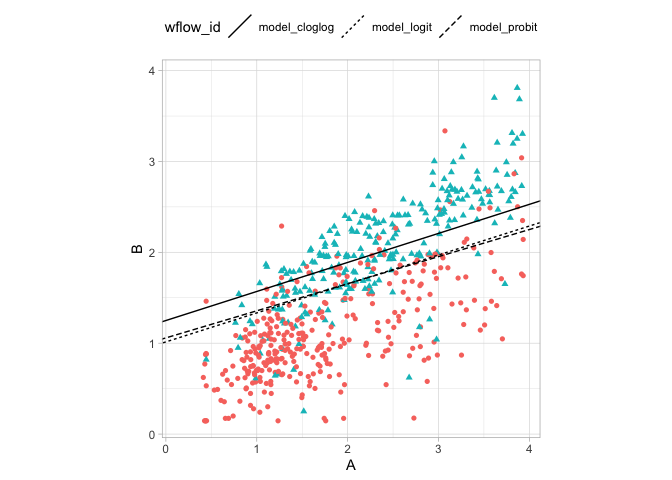
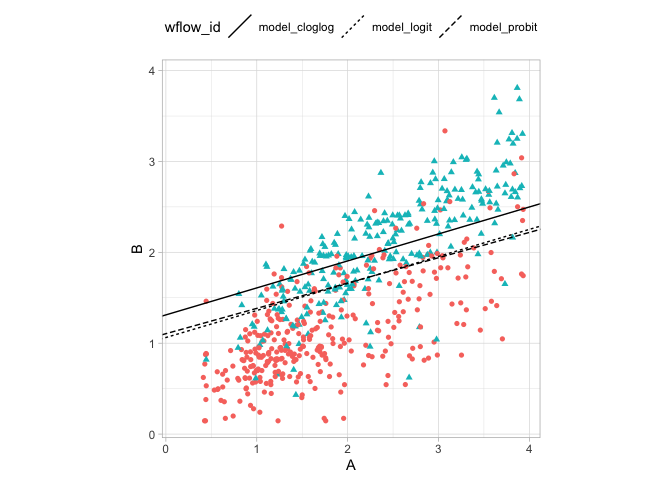
fixing math equations

diff --git a/tmwr/chapter12_tuning.md b/tmwr/chapter12_tuning.md
@@ -36,7 +36,7 @@ with two predictors, two classes, and a training set of 593 data points.
     ## ✖ dplyr::filter()  masks stats::filter()
     ## ✖ dplyr::lag()     masks stats::lag()
     ## ✖ recipes::step()  masks stats::step()
-    ## • Use tidymodels_prefer() to resolve common conflicts.
+    ## • Dig deeper into tidy modeling with R at https://www.tmwr.org
 
     tidymodels_prefer()
 
@@ -51,16 +51,16 @@ with two predictors, two classes, and a training set of 593 data points.
     ## # A tibble: 593 × 3
     ##        A     B Class 
     ##    <dbl> <dbl> <fct> 
-    ##  1 1.85  2.28  Class2
-    ##  2 3.43  2.81  Class2
-    ##  3 2.30  1.65  Class2
-    ##  4 1.20  1.51  Class2
-    ##  5 0.656 0.699 Class1
-    ##  6 1.12  0.813 Class1
-    ##  7 3.91  3.04  Class1
-    ##  8 1.31  0.785 Class1
-    ##  9 3.02  2.47  Class1
-    ## 10 0.961 0.964 Class1
+    ##  1  1.05 1.53  Class2
+    ##  2  1.92 1.83  Class1
+    ##  3  3.24 1.97  Class1
+    ##  4  2.80 2.53  Class2
+    ##  5  1.47 0.863 Class1
+    ##  6  1.42 1.60  Class2
+    ##  7  2.80 1.63  Class1
+    ##  8  1.44 0.574 Class1
+    ##  9  1.52 1.24  Class1
+    ## 10  3.89 3.68  Class2
     ## # ℹ 583 more rows
 
     training_set |> 
@@ -93,9 +93,9 @@ set (using `broom::glance()`):
     ## # A tibble: 3 × 2
     ##   logLik link     
     ##    <dbl> <chr>    
-    ## 1  -243. logit    
-    ## 2  -248. probit   
-    ## 3  -258. c-log-log
+    ## 1  -251. logit    
+    ## 2  -254. probit   
+    ## 3  -264. c-log-log
 
 According to these results, the logistic model has the best statistical
 properties.
@@ -137,19 +137,19 @@ log-likelihood
 
     ## → A | warning: glm.fit: fitted probabilities numerically 0 or 1 occurred
 
-    ## There were issues with some computations   A: x1There were issues with some computations   A: x2There were issues with some computations   A: x3There were issues with some computations   A: x4There were issues with some computations   A: x5There were issues with some computations   A: x6There were issues with some computations   A: x7There were issues with some computations   A: x8There were issues with some computations   A: x8
+    ## There were issues with some computations   A: x1There were issues with some computations   A: x1
 
     resampled_res
 
     ## # A tibble: 6 × 4
     ##   model     .metric       mean std_err
     ##   <chr>     <chr>        <dbl>   <dbl>
-    ## 1 c-log-log mn_log_loss -0.454 0.0122 
-    ## 2 c-log-log roc_auc      0.894 0.00452
-    ## 3 logistic  mn_log_loss -0.416 0.00855
-    ## 4 logistic  roc_auc      0.893 0.00453
-    ## 5 probit    mn_log_loss -0.426 0.00870
-    ## 6 probit    roc_auc      0.893 0.00452
+    ## 1 c-log-log mn_log_loss -0.460 0.0101 
+    ## 2 c-log-log roc_auc      0.886 0.00443
+    ## 3 logistic  mn_log_loss -0.430 0.00788
+    ## 4 logistic  roc_auc      0.886 0.00444
+    ## 5 probit    mn_log_loss -0.436 0.00787
+    ## 6 probit    roc_auc      0.885 0.00444
 
     resampled_res |> 
       filter(.metric=="mn_log_loss") |> 
@@ -214,9 +214,9 @@ any of these options could be used.
     ## # A tibble: 3 × 4
     ##   wflow_id      intercept      a     b
     ##   <chr>             <dbl>  <dbl> <dbl>
-    ## 1 model_logit       -4.04 -1.27   3.98
-    ## 2 model_probit      -2.24 -0.630  2.11
-    ## 3 model_cloglog     -2.78 -0.710  2.22
+    ## 1 model_logit       -3.95 -1.11   3.71
+    ## 2 model_probit      -2.23 -0.562  2.02
+    ## 3 model_cloglog     -2.78 -0.630  2.12
 
     training_set |> 
       ggplot(aes(x=A, y=B, color=Class, shape=Class)) +
@@ -237,6 +237,9 @@ any of these options could be used.
 > *θ*<sub>0</sub> + *θ*<sub>1</sub>*x*<sub>1</sub> + *θ*<sub>2</sub>*x*<sub>2</sub> ≥ 0
 >
 > *x*<sub>2</sub> ≥ −*θ*<sub>0</sub>/*θ*<sub>2</sub> + −*θ*<sub>1</sub>/*θ*<sub>2</sub>*x*<sub>1</sub>
+>
+> used in the line: `geom_abline` where the equation correspond to
+> *x*<sub>2</sub> = −*i**n**t*/*b* + −*a*/*b**x*<sub>1</sub>
 
 # Reference
 
